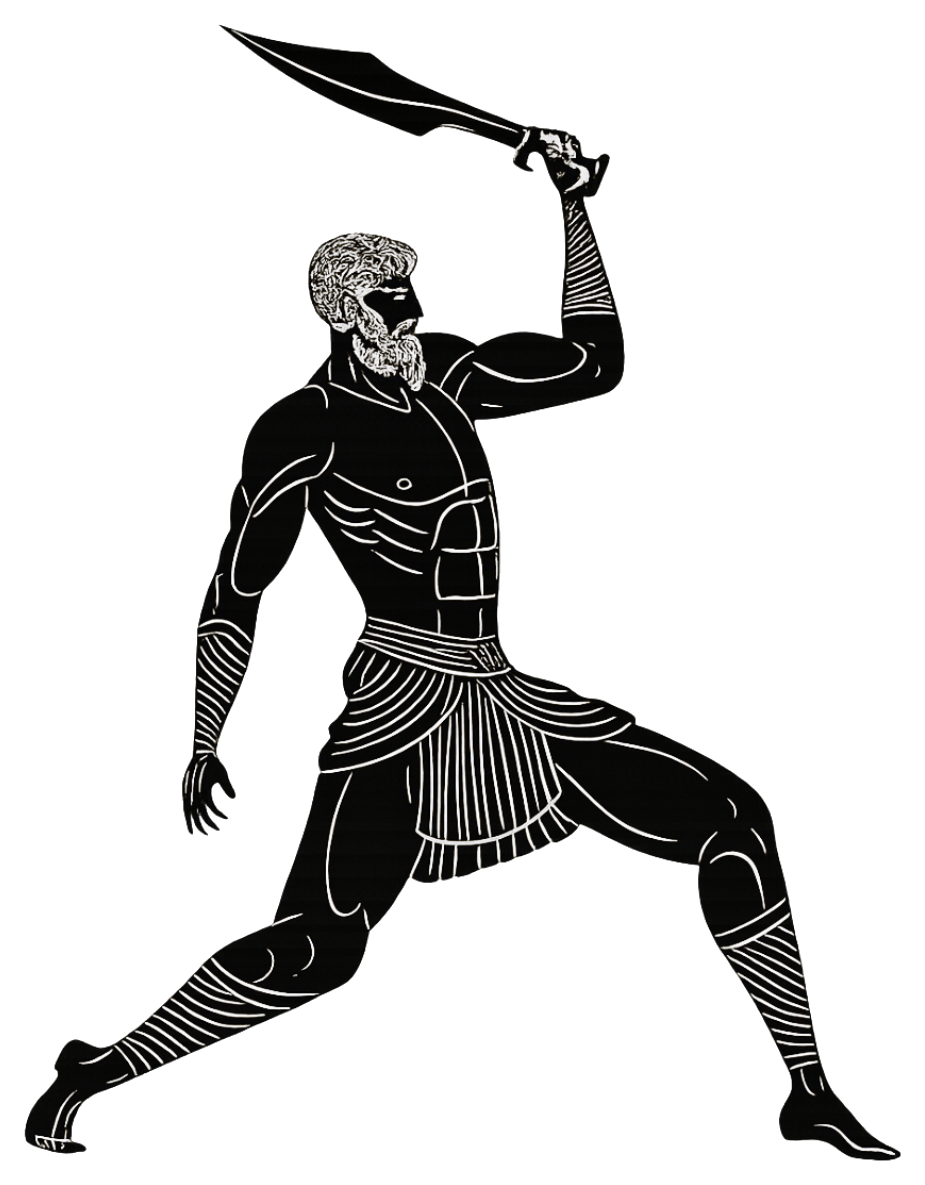
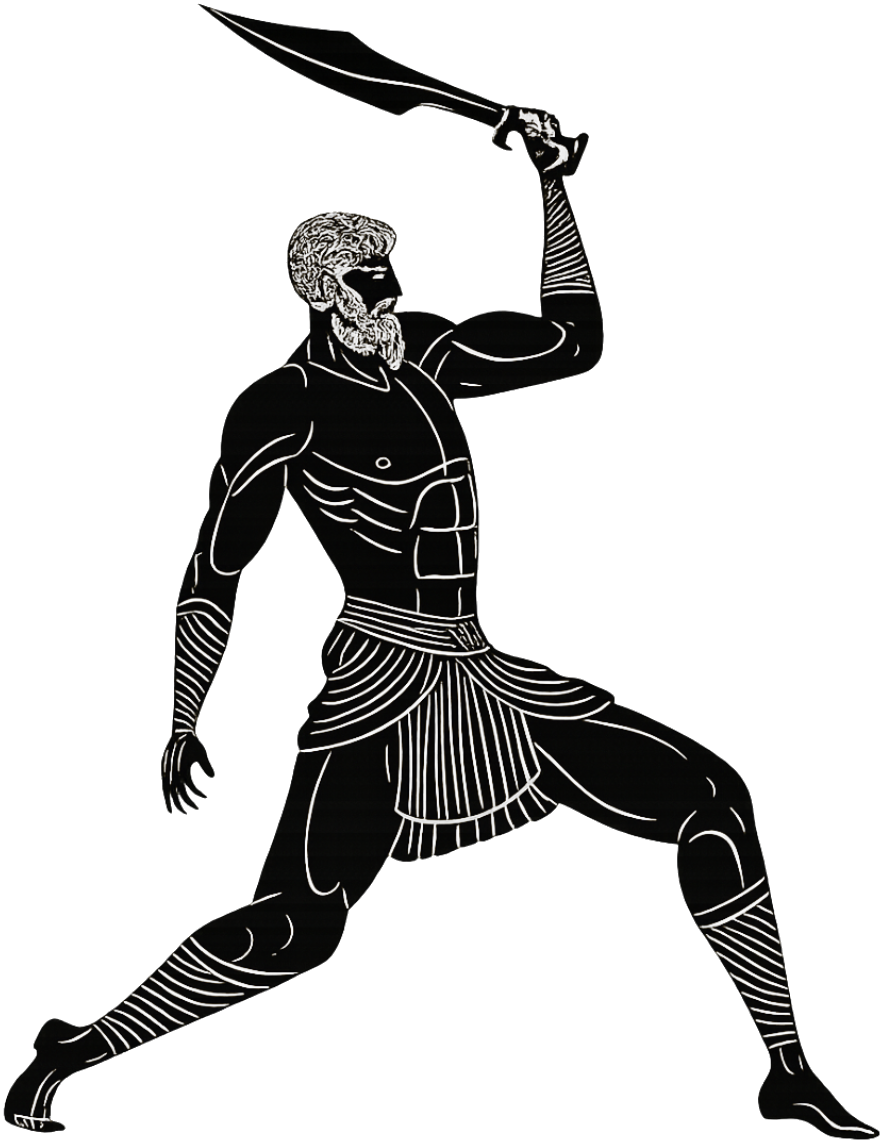
Emblème guerrier : recadrage serré (moins de marge) + dims 883x1143

Changed region(s): [[0.0, 0.0, 1.0, 1.0]]

diff --git a/src/components/Emblem.tsx b/src/components/Emblem.tsx
@@ -26,8 +26,8 @@ export function Emblem({
     <Image
       src="/images/brand/warrior.png"
       alt={alt}
-      width={925}
-      height={1185}
+      width={883}
+      height={1143}
       priority={priority}
       sizes="(max-width: 768px) 80px, 200px"
       className={className}
